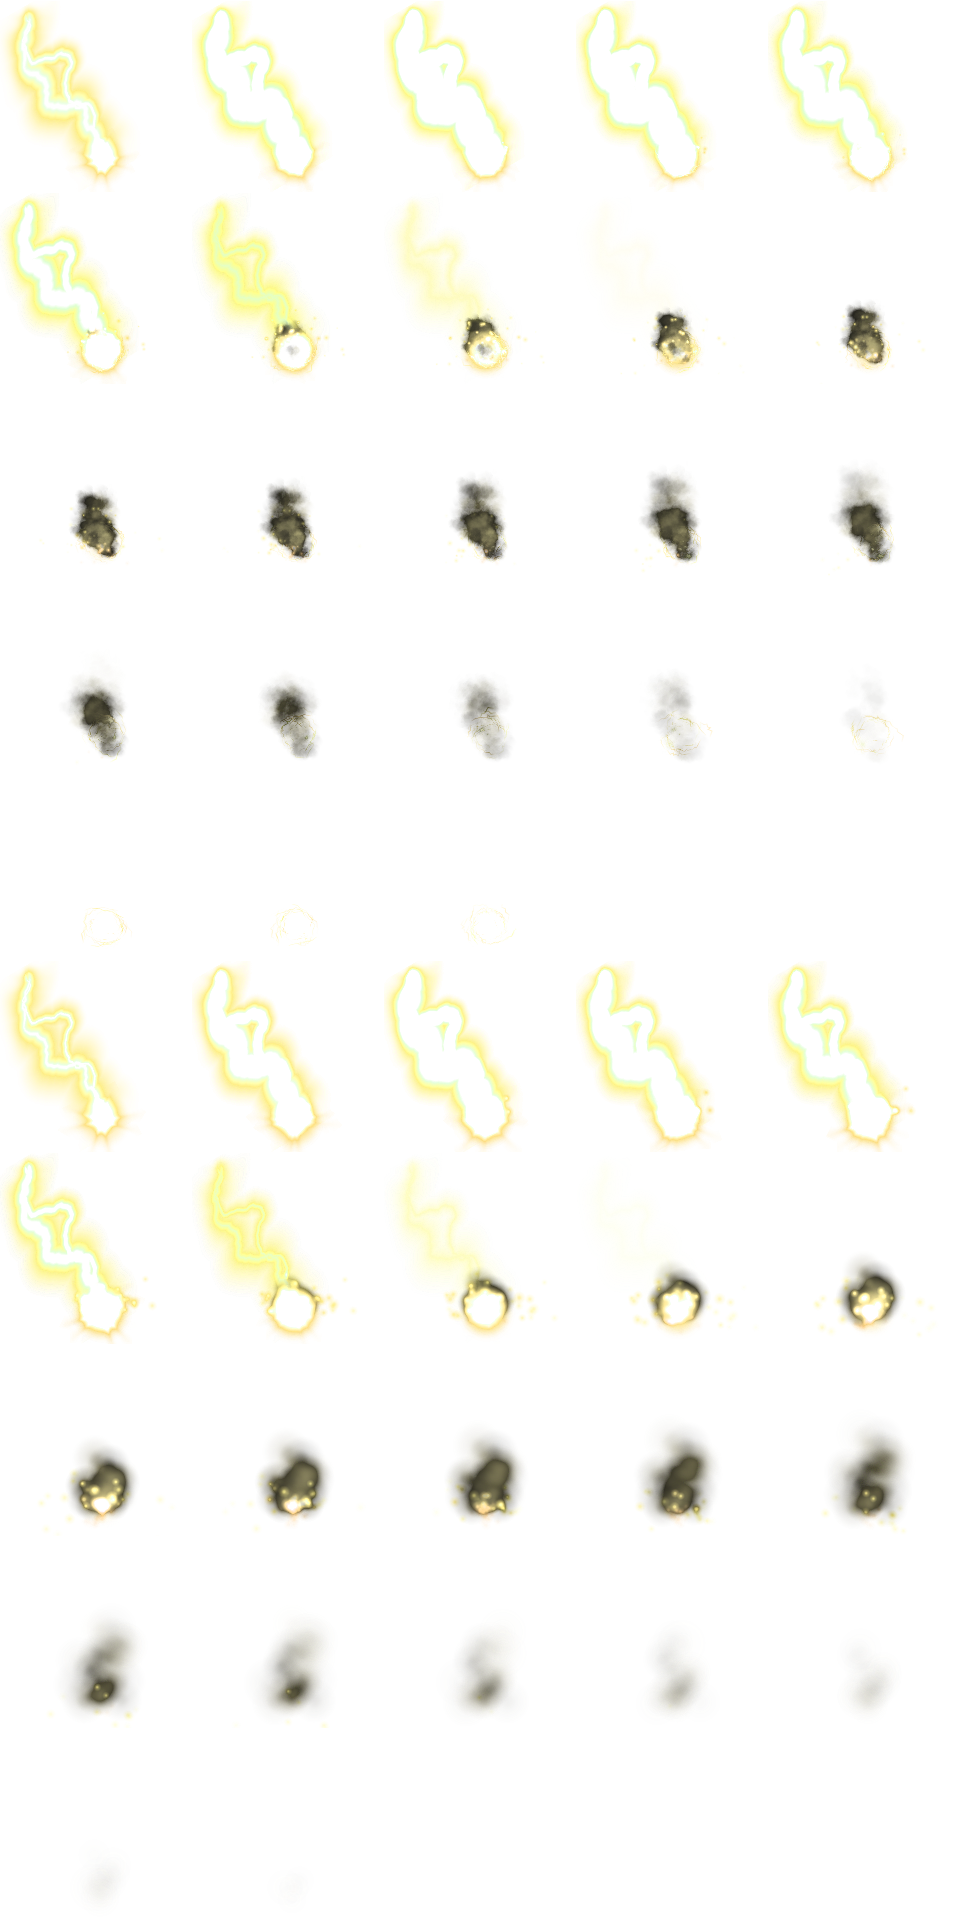
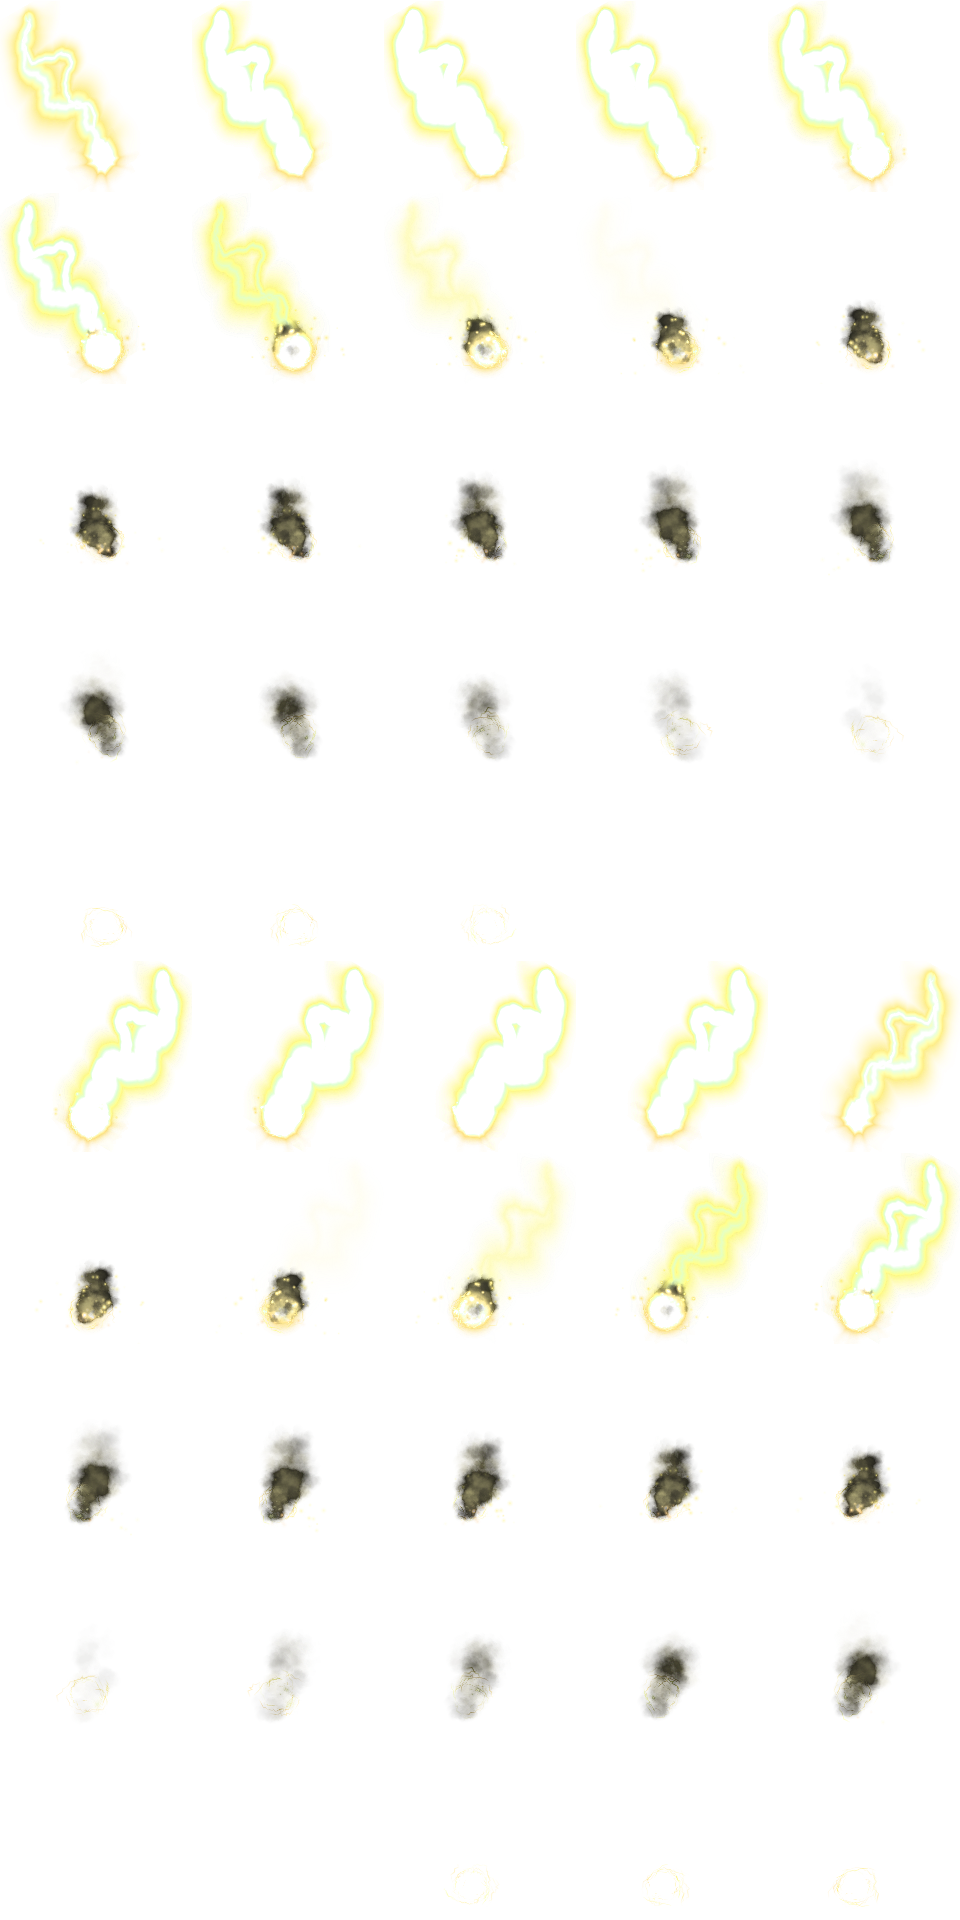
TEST

diff --git a/Engine_SOURCE/ksSkil_Lighting.cpp b/Engine_SOURCE/ksSkil_Lighting.cpp
@@ -1,0 +1,145 @@
+#include "ksSkil_Lighting.h"
+#include "ksSkilScript.h"
+#include "ksAudioClip.h"
+
+
+namespace ks
+{
+
+	Skil_Lighting::Skil_Lighting()
+	{
+
+		mTransform = GetComponent<Transform>();
+		mAnimator = AddComponent<Animator>();
+
+		m_pSkilScript = AddComponent<SkilScript>();
+		m_pSkilScript->SetSkil(eItem::Lighting);
+
+		m_pSkilScript->SetSkilOwner(this);
+
+		loadAnimation();
+		loadSound();
+
+		SpriteRenderer* sr = AddComponent<SpriteRenderer>();
+
+
+		std::shared_ptr<Material> mateiral = Resources::Find<Material>(L"CoinMaterial");
+		sr->SetMaterial(mateiral);
+		std::shared_ptr<Mesh> mesh = Resources::Find<Mesh>(L"RectMesh");
+		sr->SetMesh(mesh);
+
+		mAnimator->Play(L"Right_Attack", false);
+
+	}
+
+	Skil_Lighting::~Skil_Lighting()
+	{
+	}
+
+	void Skil_Lighting::Initalize()
+	{
+		if (mTarget != nullptr)
+		{
+			//mAnimator->Play(L"Ice_Start", false);
+			//iceStartSound();
+
+
+			m_bSkilStart = true;
+		}
+
+
+		GameObject::Initalize();
+
+	}
+
+	void Skil_Lighting::Update()
+	{
+		GameObject::Update();
+	}
+
+	void Skil_Lighting::FixedUpdate()
+	{
+		GameObject::FixedUpdate();
+	}
+
+	void Skil_Lighting::Render()
+	{
+		GameObject::Render();
+	}
+
+	void Skil_Lighting::loadAnimation()
+	{
+		std::shared_ptr<Texture> skil = Resources::Load<Texture>(L"actor1_ilsum_thunder", L"Skil\\actor1_ilsum_thunder.png");
+
+		mNumbers.push_back(0);
+		mNumbers.push_back(1);
+		mNumbers.push_back(2);
+		mNumbers.push_back(3);
+		mNumbers.push_back(4);
+		mNumbers.push_back(5);
+		mNumbers.push_back(6);
+		mNumbers.push_back(7);
+		mNumbers.push_back(8);
+		mNumbers.push_back(9);
+		mNumbers.push_back(10);
+		mNumbers.push_back(11);
+		mNumbers.push_back(12);
+		mNumbers.push_back(13);
+		mNumbers.push_back(14);
+		mNumbers.push_back(15);
+		mNumbers.push_back(16);
+		mNumbers.push_back(17);
+		mNumbers.push_back(18);
+		mNumbers.push_back(19);
+		mNumbers.push_back(20);
+		mNumbers.push_back(21);
+		mNumbers.push_back(22);
+
+		CreateAnimation(L"Right_Attack", skil, mAnimator, Vector2(192.0f, 192.0f), Vec2::Zero, mNumbers, 0.03f);
+		mNumbers.clear();
+
+
+
+
+		mNumbers.push_back(29);
+		mNumbers.push_back(28);
+		mNumbers.push_back(27);
+		mNumbers.push_back(26);
+		mNumbers.push_back(25);
+		mNumbers.push_back(34);
+		mNumbers.push_back(33);
+		mNumbers.push_back(32);
+		mNumbers.push_back(31);
+		mNumbers.push_back(30);
+		mNumbers.push_back(39);
+		mNumbers.push_back(38);
+		mNumbers.push_back(37);
+		mNumbers.push_back(36);
+		mNumbers.push_back(35);			
+		mNumbers.push_back(44);
+		mNumbers.push_back(43);
+		mNumbers.push_back(42);
+		mNumbers.push_back(41);
+		mNumbers.push_back(40);			
+		mNumbers.push_back(49);
+		mNumbers.push_back(48);
+		mNumbers.push_back(47);
+
+		CreateAnimation(L"Left_Attack", skil, mAnimator, Vector2(192.0f, 192.0f), Vec2::Zero, mNumbers, 0.03f);
+		mNumbers.clear();
+
+
+	}
+
+	void Skil_Lighting::loadSound()
+	{
+
+		//std::shared_ptr<AudioClip> Barrier = Resources::Load<AudioClip>
+		//	(L"Barrier", L"..\\Resources\\Sound\\Barrier.ogg");
+		//
+		//std::shared_ptr<AudioClip> sound = Resources::Find<AudioClip>(L"Barrier");
+		//sound->SetLoop(false);
+		//sound->Play();
+	}
+
+}

diff --git a/Engine_SOURCE/ksSkil_Lighting.h b/Engine_SOURCE/ksSkil_Lighting.h
@@ -1,0 +1,37 @@
+#pragma once
+#include "ksCSkil.h"
+
+namespace ks
+{
+	class SkilScript;
+    class Skil_Lighting :
+        public CSkil
+    {
+	public:
+
+		Skil_Lighting();
+		~Skil_Lighting();
+	
+		virtual void Initalize() override;
+		virtual void Update() override;
+		virtual void FixedUpdate() override;
+		virtual void Render() override;
+
+
+		
+
+
+	private:
+		void loadAnimation();
+
+		void loadSound();
+
+
+	private:
+
+
+		SkilScript*			 m_pSkilScript;		
+
+
+    };
+}

diff --git a/Engine_SOURCE/ksPlayerScript.h b/Engine_SOURCE/ksPlayerScript.h
@@ -71,6 +71,7 @@ namespace ks
 		void skilIce();
 		void skilDark();
 		void skilBarrier();
+		void skilLighting();
 
 	private:
 
